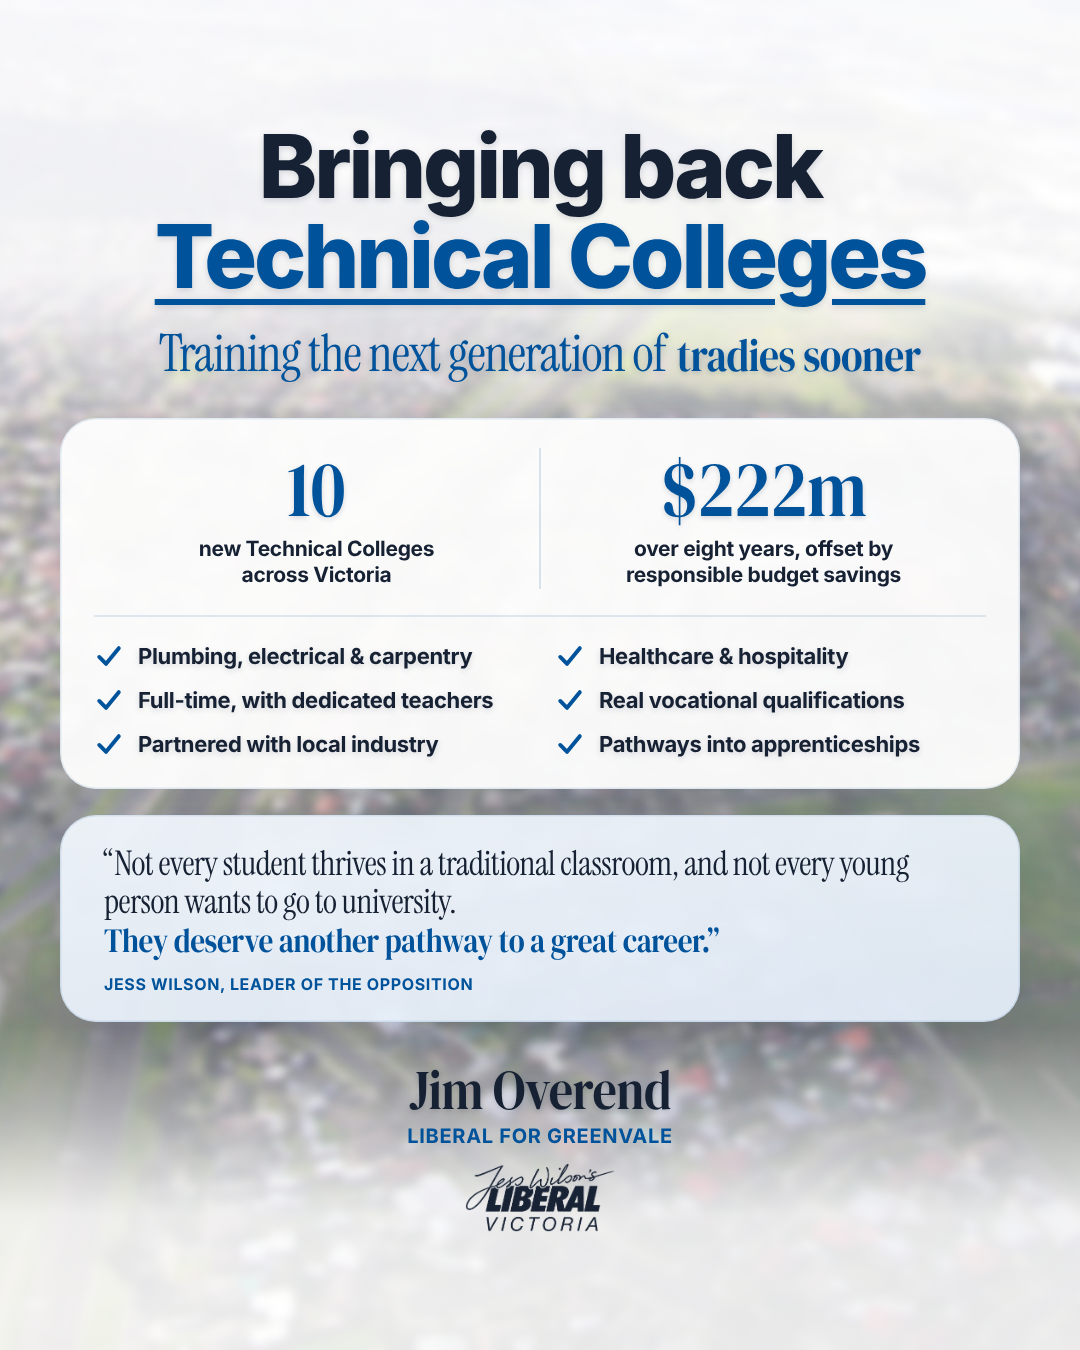
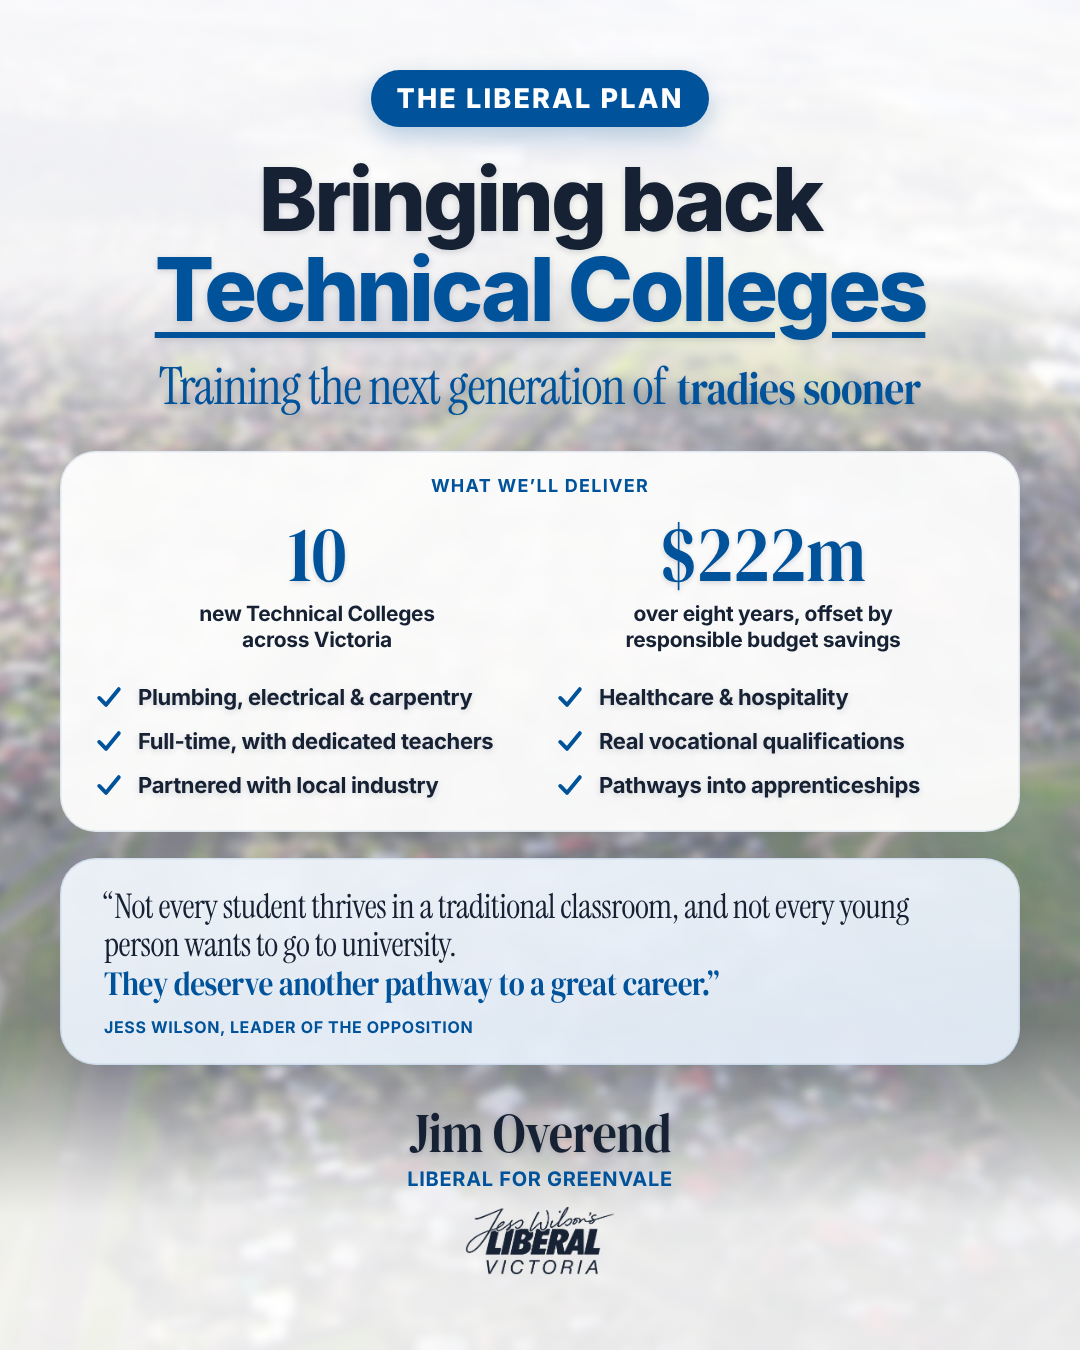
Tech colleges slides: drop dividers and sources, label the Liberal Plan
Remove the divider lines inside the cards on both slides and the
on-slide sources line (sources go in the post description). Slide 2
gains a blue "The Liberal Plan" pill above the headline and a "What
we'll deliver" card heading. Both slides re-centred.

Claude-Session: https://claude.ai/code/session_01MT6wivusBEagFnhed7SAun

Changed region(s): [[0.0306, 0.0311, 0.9472, 0.9644]]

diff --git a/designs/tech-colleges-north/source/labor-tafe.html b/designs/tech-colleges-north/source/labor-tafe.html
@@ -29,7 +29,6 @@ h1 .ul{text-decoration:underline;text-decoration-color:var(--red);text-decoratio
 /* stat tiles */
 #stats{display:flex;padding:30px 18px 28px}
 .st{flex:1;padding:0 14px}
-.st+.st{border-left:2px solid rgba(215,38,46,.14)}
 .st .n{font-family:"Serif Bold";color:var(--red);line-height:1;display:inline-block;transform:scaleX(.86);white-space:nowrap;text-shadow:var(--shadow)}
 .st .l{margin-top:10px;font-family:"Inter";font-weight:700;color:var(--ink);letter-spacing:-.015em;line-height:1.25}
 /* Labor's record: red cross list */
@@ -39,7 +38,6 @@ h1 .ul{text-decoration:underline;text-decoration-color:var(--red);text-decoratio
 .x{display:flex;gap:18px;align-items:center;font-family:"Inter";font-weight:600;color:var(--ink);letter-spacing:-.015em;line-height:1.28}
 .x b{font-weight:800;color:var(--red)}
 .x svg{flex:none}
-#src{font-family:"Inter";font-weight:500;color:rgba(30,27,28,.6);letter-spacing:-.005em;line-height:1.35;max-width:900px}
 #swipe{display:inline-flex;align-items:center;gap:12px;padding:13px 26px;border-radius:999px;background:var(--red);color:#fff;
   font-family:"Inter";font-weight:700;letter-spacing:-.01em;box-shadow:0 10px 24px rgba(215,38,46,.25)}
 #swipe svg{width:1.1em;height:1.1em}
@@ -55,7 +53,6 @@ h1 .ul{text-decoration:underline;text-decoration-color:var(--red);text-decoratio
     <div id="lead" class="serif"></div>
     <div id="stats" class="card"></div>
     <div id="record" class="card"><div class="lab"></div><div class="rows"></div></div>
-    <div id="src"></div>
     <div id="swipe"><span></span><svg viewBox="0 0 24 24" fill="none" stroke="#fff" stroke-width="2.6" stroke-linecap="round" stroke-linejoin="round"><path d="M4 12h15M13 6l6 6-6 6"/></svg></div>
     <div id="foot"><div id="name"><div class="n"></div><div class="r"></div></div><img id="logo" src="logo-navy.png" alt="Jess Wilson's Liberal Victoria"></div>
   </div>
@@ -63,7 +60,7 @@ h1 .ul{text-decoration:underline;text-decoration-color:var(--red);text-decoratio
 <script>
 const P = Object.assign({
   // Defaults = the published layout. Override any key via ?p={"key":value} (see render.js).
-  wash:[.90,.30,.88], top:102,
+  wash:[.90,.30,.88], top:128,
   head:'Under Labor,<br><span class="acc ul">TAFE is failing</span>', hSize:94,
   lead:'<span class="lt">Victoria is facing a</span> <span class="bd">skills crisis</span>', leadSize:52,
   stats:[['12%','youth unemployment<br>and rising'],['700,000','vocationally qualified<br>workers needed over<br>the next decade'],['$73.5m','underlying TAFE<br>deficit, the largest<br>since 2021']],
@@ -73,9 +70,8 @@ const P = Object.assign({
     '<b>Lowest</b> student satisfaction with training quality in the nation',
     '<b>Worse</b> finances at most Victorian TAFEs in 2025',
   ]},
-  src:'Sources: Victorian Auditor-General’s Office, results of the 2025 TAFE audits; Productivity Commission, Report on Government Services 2026 (mid-year); Liberal Party of Victoria.', srcSize:13,
   swipe:'Swipe for our plan', swipeSize:21,
-  gaps:[26,44,26,28,26,32],               // after head, lead, stats, record, src, swipe
+  gaps:[26,44,26,40,0,36],               // after head, lead, stats, record, src, swipe
   name:{size:54, text:'Jim Overend', role:'Liberal for Greenvale', roleSize:19}, logoW:146, footGap:12
 }, JSON.parse(new URLSearchParams(location.search).get('p')||'{}'));
 const $=id=>document.getElementById(id), px=v=>v+'px';
@@ -87,9 +83,8 @@ $('stats').innerHTML=P.stats.map(([n,l])=>`<div class="st"><div class="n" style=
 const R=P.record, cross=`<svg width="${R.size*1.45}" height="${R.size*1.45}" viewBox="0 0 34 34"><circle cx="17" cy="17" r="16" fill="#d7262e"/><path d="M11.5 11.5l11 11M22.5 11.5l-11 11" stroke="#fff" stroke-width="3.6" stroke-linecap="round"/></svg>`;
 $('record').querySelector('.lab').innerHTML=R.lab; $('record').querySelector('.lab').style.fontSize=px(R.labSize);
 $('record').querySelector('.rows').innerHTML=R.rows.map(t=>`<div class="x" style="font-size:${R.size}px">${cross}<span>${t}</span></div>`).join('');
-$('src').innerHTML=P.src; $('src').style.fontSize=px(P.srcSize);
 $('swipe').querySelector('span').innerHTML=P.swipe; $('swipe').style.fontSize=px(P.swipeSize);
-[['h',0],['lead',1],['stats',2],['record',3],['src',4],['swipe',5]].forEach(([id,i])=>$(id).style.marginBottom=px(P.gaps[i]));
+[['h',0],['lead',1],['stats',2],['record',3],['swipe',5]].forEach(([id,i])=>$(id).style.marginBottom=px(P.gaps[i]));
 $('name').querySelector('.n').innerHTML=P.name.text; $('name').querySelector('.n').style.fontSize=px(P.name.size);
 $('name').querySelector('.r').innerHTML=P.name.role; $('name').querySelector('.r').style.fontSize=px(P.name.roleSize);
 $('logo').style.width=px(P.logoW); $('foot').style.gap=px(P.footGap);

diff --git a/designs/tech-colleges-north/source/tech-colleges.html b/designs/tech-colleges-north/source/tech-colleges.html
@@ -25,13 +25,16 @@ h1 .ul{text-decoration:underline;text-decoration-color:var(--blue);text-decorati
 .serif .bd{font-family:"Serif Bold";display:inline-block;transform:scaleX(.86)}
 .card{width:100%;border-radius:36px;background:rgba(255,255,255,.93);backdrop-filter:blur(6px);
   box-shadow:inset 0 0 0 1.5px rgba(0,83,154,.10),0 18px 40px rgba(20,40,80,.10)}
-#statcard{padding:30px 34px 30px}
+#statcard{padding:26px 34px 32px}
+#statcard .lab{font-family:"Inter";font-weight:700;color:var(--blue);letter-spacing:.07em;text-transform:uppercase;line-height:1;margin-bottom:18px}
+/* "The Liberal Plan" kicker: solid blue pill, counterpart to slide 1's red swipe pill */
+#kicker{display:inline-flex;align-items:center;gap:12px;padding:12px 26px;border-radius:999px;background:var(--blue);color:#fff;
+  font-family:"Inter";font-weight:800;letter-spacing:.08em;text-transform:uppercase;box-shadow:0 10px 24px rgba(0,83,154,.25)}
 #stats{display:flex}
 .st{flex:1;padding:0 10px}
-.st+.st{border-left:2px solid rgba(0,83,154,.14)}
 .st .n{font-family:"Serif Bold";color:var(--blue);line-height:1;display:inline-block;transform:scaleX(.86);text-shadow:var(--shadow)}
 .st .l{margin-top:8px;font-family:"Inter";font-weight:700;color:var(--navy);letter-spacing:-.015em;line-height:1.25}
-#ticks{display:grid;grid-template-columns:1fr 1fr;gap:16px 30px;text-align:left;margin-top:26px;padding-top:26px;border-top:2px solid rgba(0,83,154,.12)}
+#ticks{display:grid;grid-template-columns:1fr 1fr;gap:16px 30px;text-align:left;margin-top:30px}
 .tk{display:flex;gap:14px;align-items:flex-start;font-family:"Inter";font-weight:700;color:var(--navy);letter-spacing:-.015em;line-height:1.25;text-shadow:var(--shadow)}
 .tk svg{flex:none;width:30px;height:30px;margin-top:-2px}
 #quote{padding:30px 44px 28px;text-align:left;background:linear-gradient(170deg,rgba(241,246,252,.94),rgba(226,236,248,.94));position:relative}
@@ -48,9 +51,10 @@ h1 .ul{text-decoration:underline;text-decoration-color:var(--blue);text-decorati
   <img id="bg" class="abs" src="bg.jpg" alt="">
   <div id="wash" class="abs"></div>
   <div id="col" class="abs">
+    <div id="kicker"></div>
     <h1 id="h"></h1>
     <div id="lead" class="serif"></div>
-    <div id="statcard" class="card"><div id="stats"></div><div id="ticks"></div></div>
+    <div id="statcard" class="card"><div class="lab"></div><div id="stats"></div><div id="ticks"></div></div>
     <div id="quote" class="card"><div class="mark">“</div><div class="q"></div><div class="who"></div></div>
     <div id="foot"><div id="name"><div class="n"></div><div class="r"></div></div><img id="logo" src="logo-navy.png" alt="Jess Wilson's Liberal Victoria"></div>
   </div>
@@ -58,7 +62,8 @@ h1 .ul{text-decoration:underline;text-decoration-color:var(--blue);text-decorati
 <script>
 const P = Object.assign({
   // Defaults = the published layout. Override any key via ?p={"key":value} (see render.js).
-  wash:[.86,.18,.86], top:122,
+  wash:[.86,.18,.86], top:70,
+  kicker:'The Liberal Plan', kickerSize:27, kickerGap:28, cardLab:'What we’ll deliver', labSize:18,
   head:'Bringing back<br><span class="acc ul">Technical Colleges</span>', hSize:88,
   lead:'<span class="lt">Training the next generation of</span> <span class="bd">tradies sooner</span>', leadSize:46,
   // stats from the 11 Oct 2026 Liberal commitment
@@ -82,6 +87,8 @@ $('ticks').innerHTML=P.ticks.map(t=>`<div class="tk" style="font-size:${P.tickSi
 const Q=P.quote; $('quote').querySelector('.q').innerHTML='“'+Q.text; $('quote').querySelector('.q').style.fontSize=px(Q.size);
 $('quote').querySelector('.who').innerHTML=Q.who; $('quote').querySelector('.who').style.fontSize=px(Q.whoSize);
 $('quote').querySelector('.mark').style.fontSize=px(Q.markSize); $('quote').querySelector('.mark').style.display='none';
+$('kicker').innerHTML=P.kicker; $('kicker').style.fontSize=px(P.kickerSize); $('kicker').style.marginBottom=px(P.kickerGap);
+$('statcard').querySelector('.lab').innerHTML=P.cardLab; $('statcard').querySelector('.lab').style.fontSize=px(P.labSize);
 ['h','lead','statcard','quote'].forEach((id,i)=>$(id).style.marginBottom=px(P.gaps[i]));
 $('name').querySelector('.n').innerHTML=P.name.text; $('name').querySelector('.n').style.fontSize=px(P.name.size);
 $('name').querySelector('.r').innerHTML=P.name.role; $('name').querySelector('.r').style.fontSize=px(P.name.roleSize);

diff --git a/designs/tech-colleges-north/README.md b/designs/tech-colleges-north/README.md
@@ -9,10 +9,11 @@ background from `../policy-background/`.
    unemployment and rising; 700,000 vocationally qualified workers needed over the next decade; $73.5m
    underlying TAFE deficit, largest since 2021) and a "Labor's record" list with red crosses, mirroring the
    plan slide's ticks (highest unemployment rate in the nation; lowest student satisfaction with training
-   quality in the nation; worse finances at most Victorian TAFEs in 2025), sources line, red "Swipe for our
-   plan" cue. The $718m Free TAFE figure was dropped (it read as Labor investment). Source:
+   quality in the nation; worse finances at most Victorian TAFEs in 2025), and a red "Swipe for our plan"
+   cue. No divider lines or on-slide sources (sources go in the post description — see table below). The $718m Free TAFE figure was dropped (it read as Labor investment). Source:
    `source/labor-tafe.html`.
-2. `tech-colleges-2-plan.png` — **"Bringing back Technical Colleges"**: 10 new colleges and $222m over
+2. `tech-colleges-2-plan.png` — headed by a solid blue **"The Liberal Plan"** pill, then **"Bringing back
+   Technical Colleges"**; a "What we'll deliver" card with 10 new colleges and $222m over
    eight years offset by budget savings; six ticks (plumbing/electrical/carpentry, healthcare & hospitality,
    full-time with dedicated teachers, real vocational qualifications, partnered with local industry,
    pathways into apprenticeships); Jess Wilson quote. Source: `source/tech-colleges.html`.
